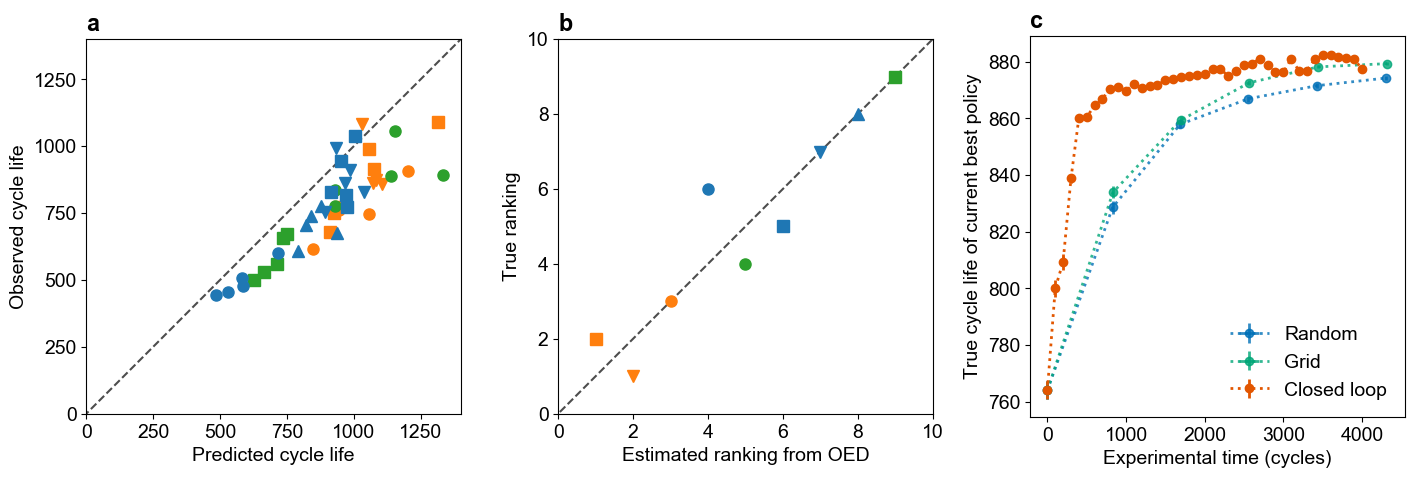
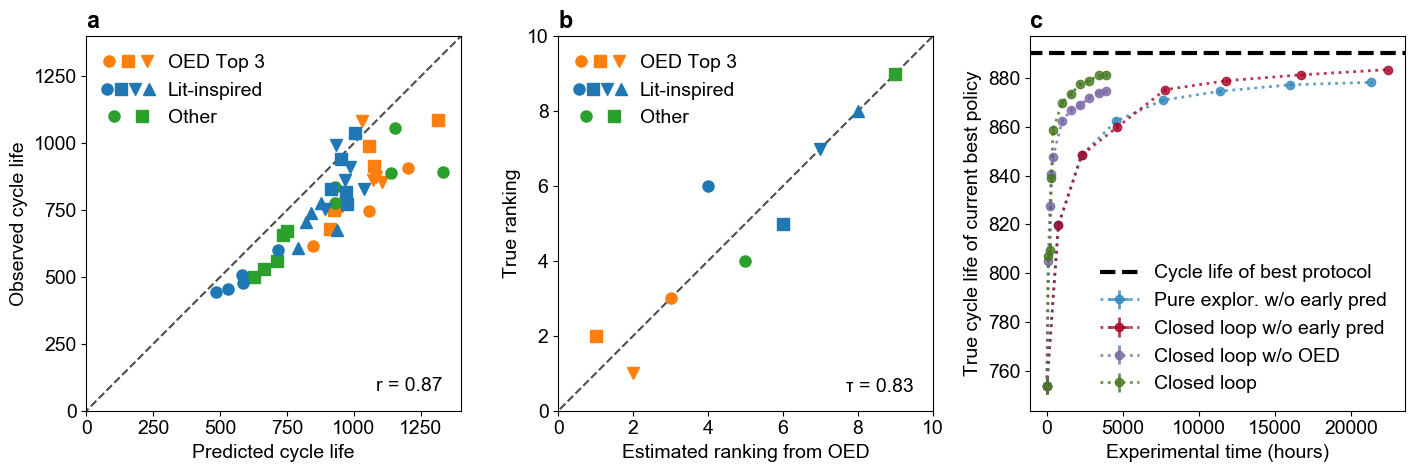
New Figure 4

diff --git a/figures/fig4/fig4.py b/figures/fig4/fig4.py
@@ -9,7 +9,7 @@ Created on Tue Jan 29 22:09:03 2019
 import numpy as np
 import matplotlib.pyplot as plt
 from matplotlib import rcParams
-from matplotlib.legend_handler import HandlerLine2D
+from matplotlib.legend_handler import HandlerLine2D, HandlerTuple
 import glob
 import pickle
 from cycler import cycler
@@ -131,51 +131,65 @@ ax2.set_ylabel('True ranking')
 tau = kendalltau(oed_ranks,final_ranks)[0]
 ax2.annotate('τ = {:.2}'.format(tau),(9.5,0.5),horizontalalignment='right')
 ax2.set_title('b',loc='left', weight='bold')
-"""
-ax2.legend([(p[1],p[2],p[3]),(p[0],p[5],p[6],p[7]),(p[4],p[8])],
-            ['OED Top 3', 'Lit-inspired', 'Misc.'],
-            handler_map={p[1]:HandlerLine2D(numpoints=1), 
-                         p[0]:HandlerLine2D(numpoints=1),
-                         p[8]:HandlerLine2D(numpoints=1)})
-    """
-import matplotlib.patches as mpatches
-p1 = mpatches.Patch(color=c2, label='OED Top 3')
-p2 = mpatches.Patch(color=c1, label='Lit-inspired')
-p3 = mpatches.Patch(color=c3, label='Misc.')
-ax2.legend(handles=[p1,p2,p3])
-ax1.legend(handles=[p1,p2,p3])
 
-# Aditya's plot
+l = ax2.legend([(p[1], p[2], p[3]),(p[0],p[5],p[6],p[7]),(p[4],p[8])], 
+              ['OED Top 3', 'Lit-inspired', 'Other'],
+              numpoints=1, handlelength=2.5, frameon=False,
+               handler_map={tuple: HandlerTuple(ndivide=None)})
+
+l = ax1.legend([(p[1], p[2], p[3]),(p[0],p[5],p[6],p[7]),(p[4],p[8])], 
+              ['OED Top 3', 'Lit-inspired', 'Other'],
+              numpoints=1, handlelength=2.5, frameon=False,
+               handler_map={tuple: HandlerTuple(ndivide=None)})
+
+# Ablation plot
 with open('fig4_plot_data.pkl', 'rb') as infile:
         data_dict = pickle.load(infile)
-ax3.errorbar(data_dict['random_x'],data_dict['random_y'], \
-             xerr=data_dict['random_xerr'],yerr=data_dict['random_yerr'],\
-	alpha=0.8, \
-	linewidth=2, \
-	marker='o', \
-	linestyle=':', \
-	color=[0,112/256,184/256], \
-	label='Random')
-ax3.errorbar(data_dict['grid_x'],data_dict['grid_y'], \
-             xerr=data_dict['grid_xerr'],yerr=data_dict['grid_yerr'],\
-	alpha=0.8, \
-	linewidth=2, \
-	marker='o', \
-	linestyle=':', \
-    color=[0,167/256,119/256], \
-	label='Grid')
-ax3.errorbar(data_dict['oed_x'],data_dict['oed_y'],yerr=data_dict['oed_yerr'],\
-	linewidth=2, \
-	marker='o', \
-	linestyle=':', \
-    color=[227/256,86/256,0], \
+        
+ax3.set_prop_cycle(plt.style.library['bmh']['axes.prop_cycle'])
+
+ax3.plot([-1300,30000],[np.max(final_means),np.max(final_means)],color='k',linestyle='--',linewidth=3,
+         label='Cycle life of best protocol')
+ax3.errorbar(data_dict['no_oed_no_ep_x'],data_dict['no_oed_no_ep_y'], 
+             xerr=data_dict['no_oed_no_ep_xerr'],yerr=data_dict['no_oed_no_ep_yerr'],
+	alpha=0.8, 
+	linewidth=2, 
+	marker='o', 
+	linestyle=':', 
+	#color=[0,112/256,184/256], 
+	label='Pure explor. w/o early pred')
+ax3.errorbar(data_dict['oed_no_ep_x'],data_dict['oed_no_ep_y'],
+             xerr=data_dict['oed_no_ep_xerr'],yerr=data_dict['oed_no_ep_yerr'],
+    alpha=0.8,
+	linewidth=2,
+	marker='o', 
+	linestyle=':', 
+    #color=[227/256,86/256,0], 
+	label='Closed loop w/o early pred')
+ax3.errorbar(data_dict['no_oed_ep_x'],data_dict['no_oed_ep_y'], 
+             yerr=data_dict['no_oed_ep_yerr'],
+	alpha=0.8, 
+	linewidth=2, 
+	marker='o', 
+	linestyle=':', 
+    #color=[0,167/256,119/256], 
+	label='Closed loop w/o OED')
+ax3.errorbar(data_dict['oed_ep_x'],data_dict['oed_ep_y'],yerr=data_dict['oed_ep_yerr'],
+	alpha=0.8, 
+    linewidth=2, 
+	marker='o', 
+	linestyle=':', 
+    #color=[227/256,86/256,0], 
 	label='Closed loop')
 # plt.xticks(np.arange(max_budget+1))
 ax3.legend(frameon=False)
 
-ax3.set_aspect(aspect=36)
+ax3.set_xlim((-1100, 23500))
+xrange = ax3.get_xlim()[1] - ax3.get_xlim()[0]
+yrange = ax3.get_ylim()[1] - ax3.get_ylim()[0]
+ax3.set_aspect(aspect=xrange/yrange)
 
-ax3.set_xlabel('Experimental time (cycles)')
+ax3.set_xlabel('Experimental time (hours)')
 ax3.set_ylabel('True cycle life of current best policy')
 ax3.set_title('c',loc='left',weight='bold')
 
